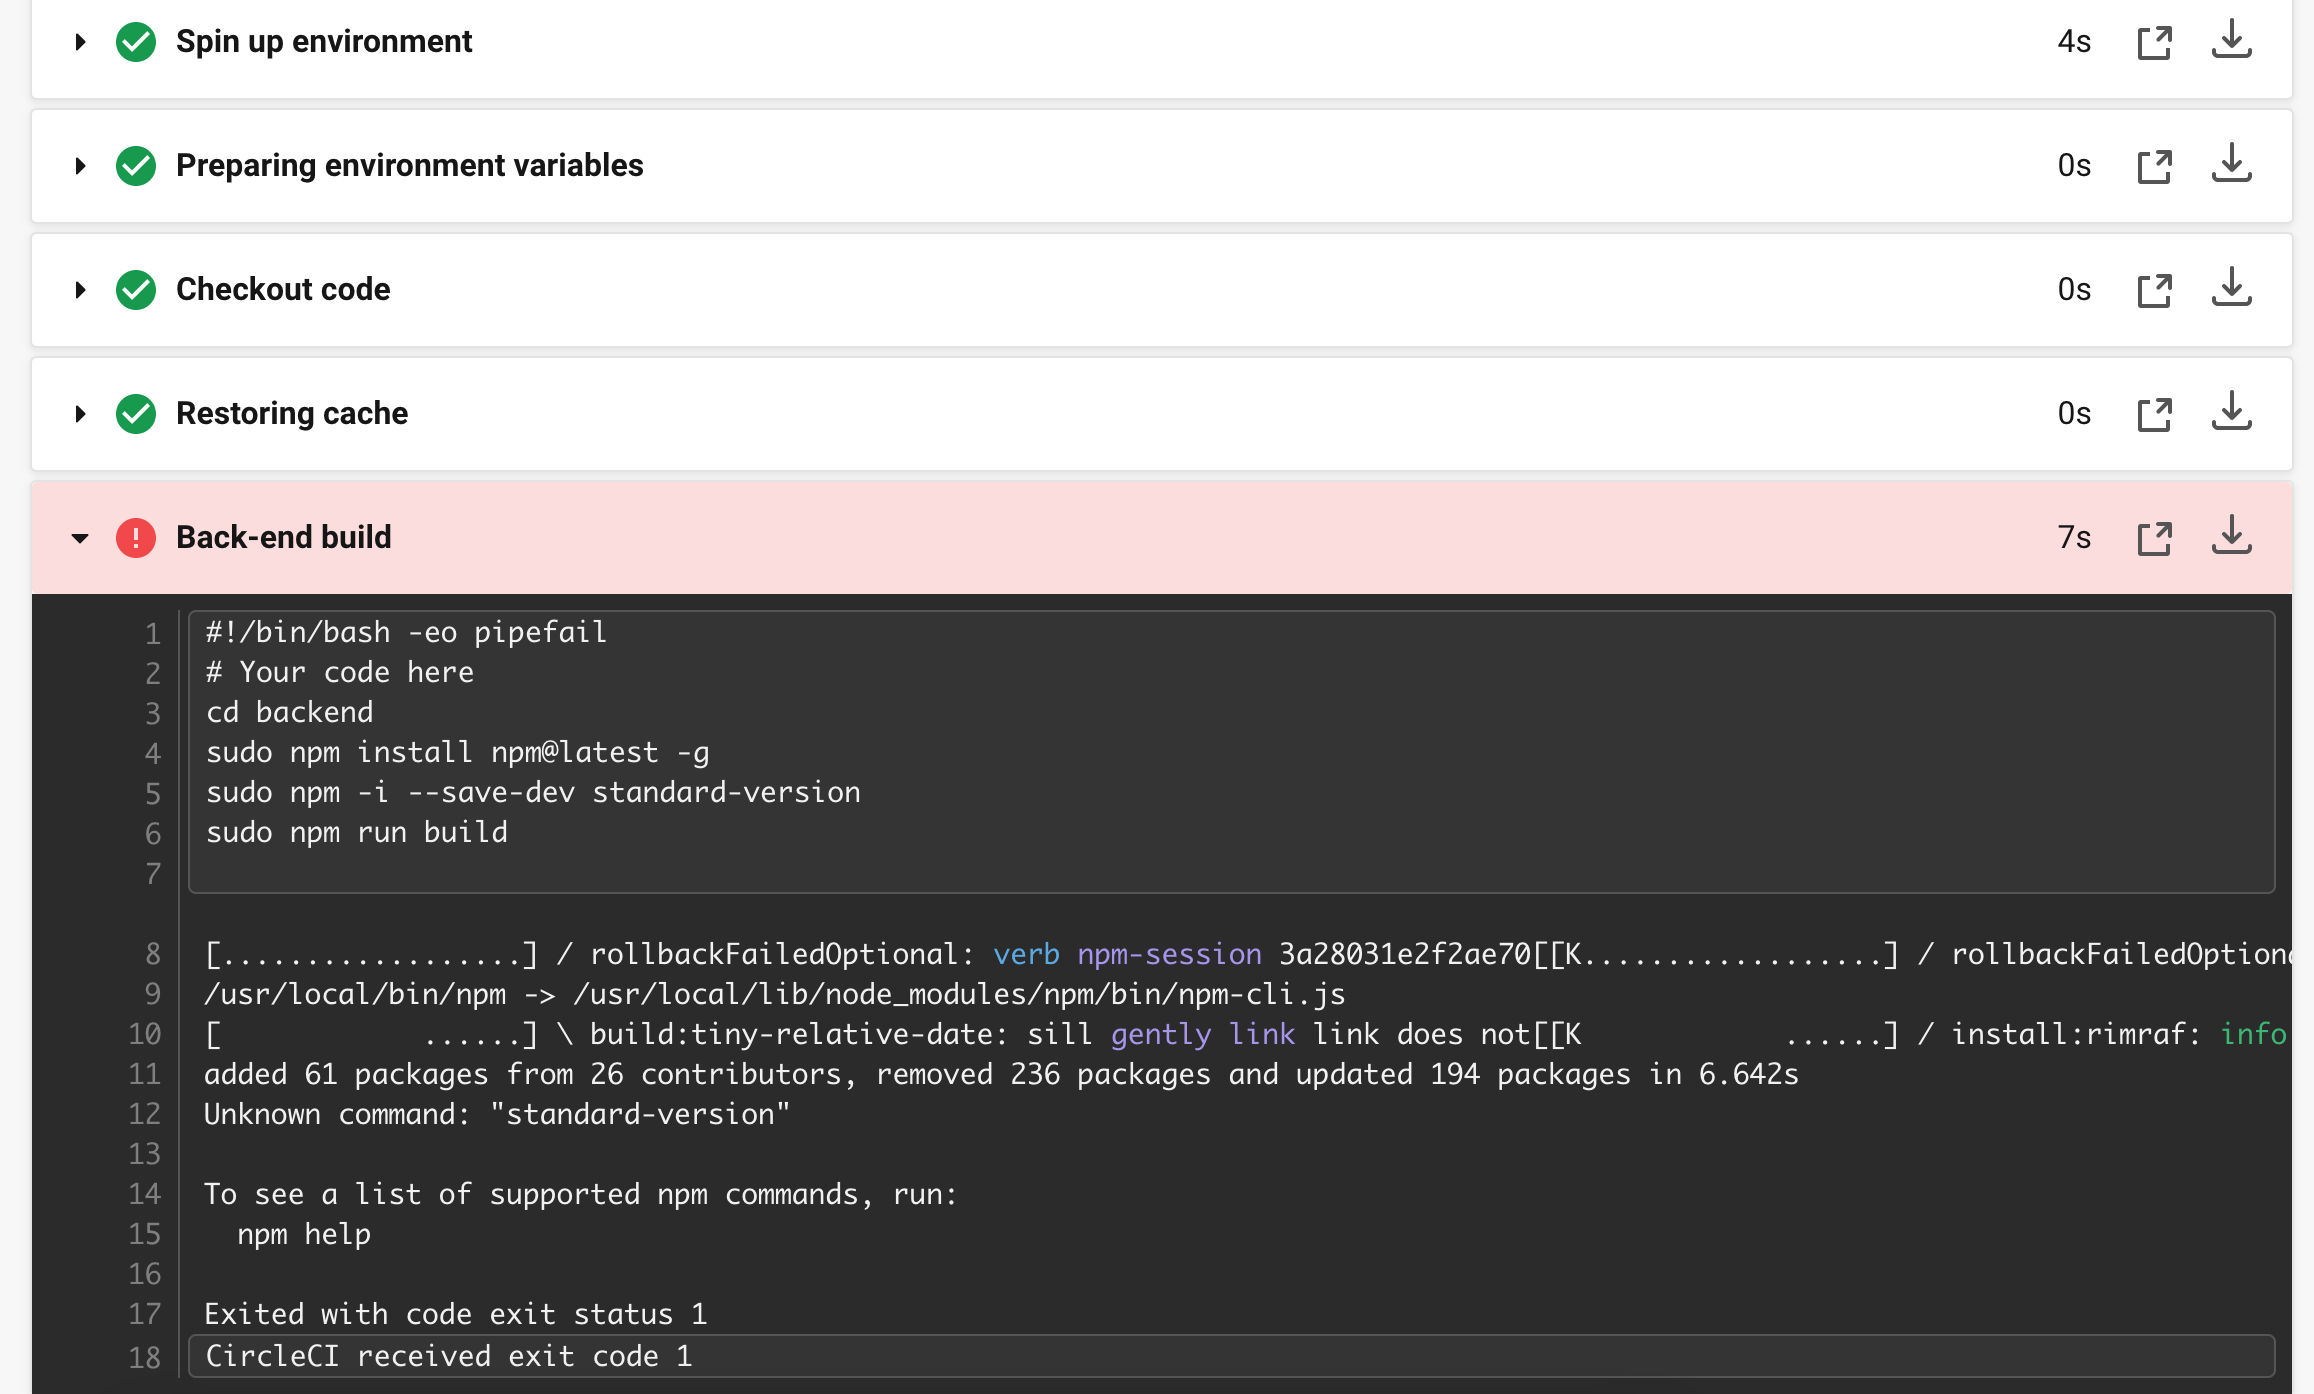
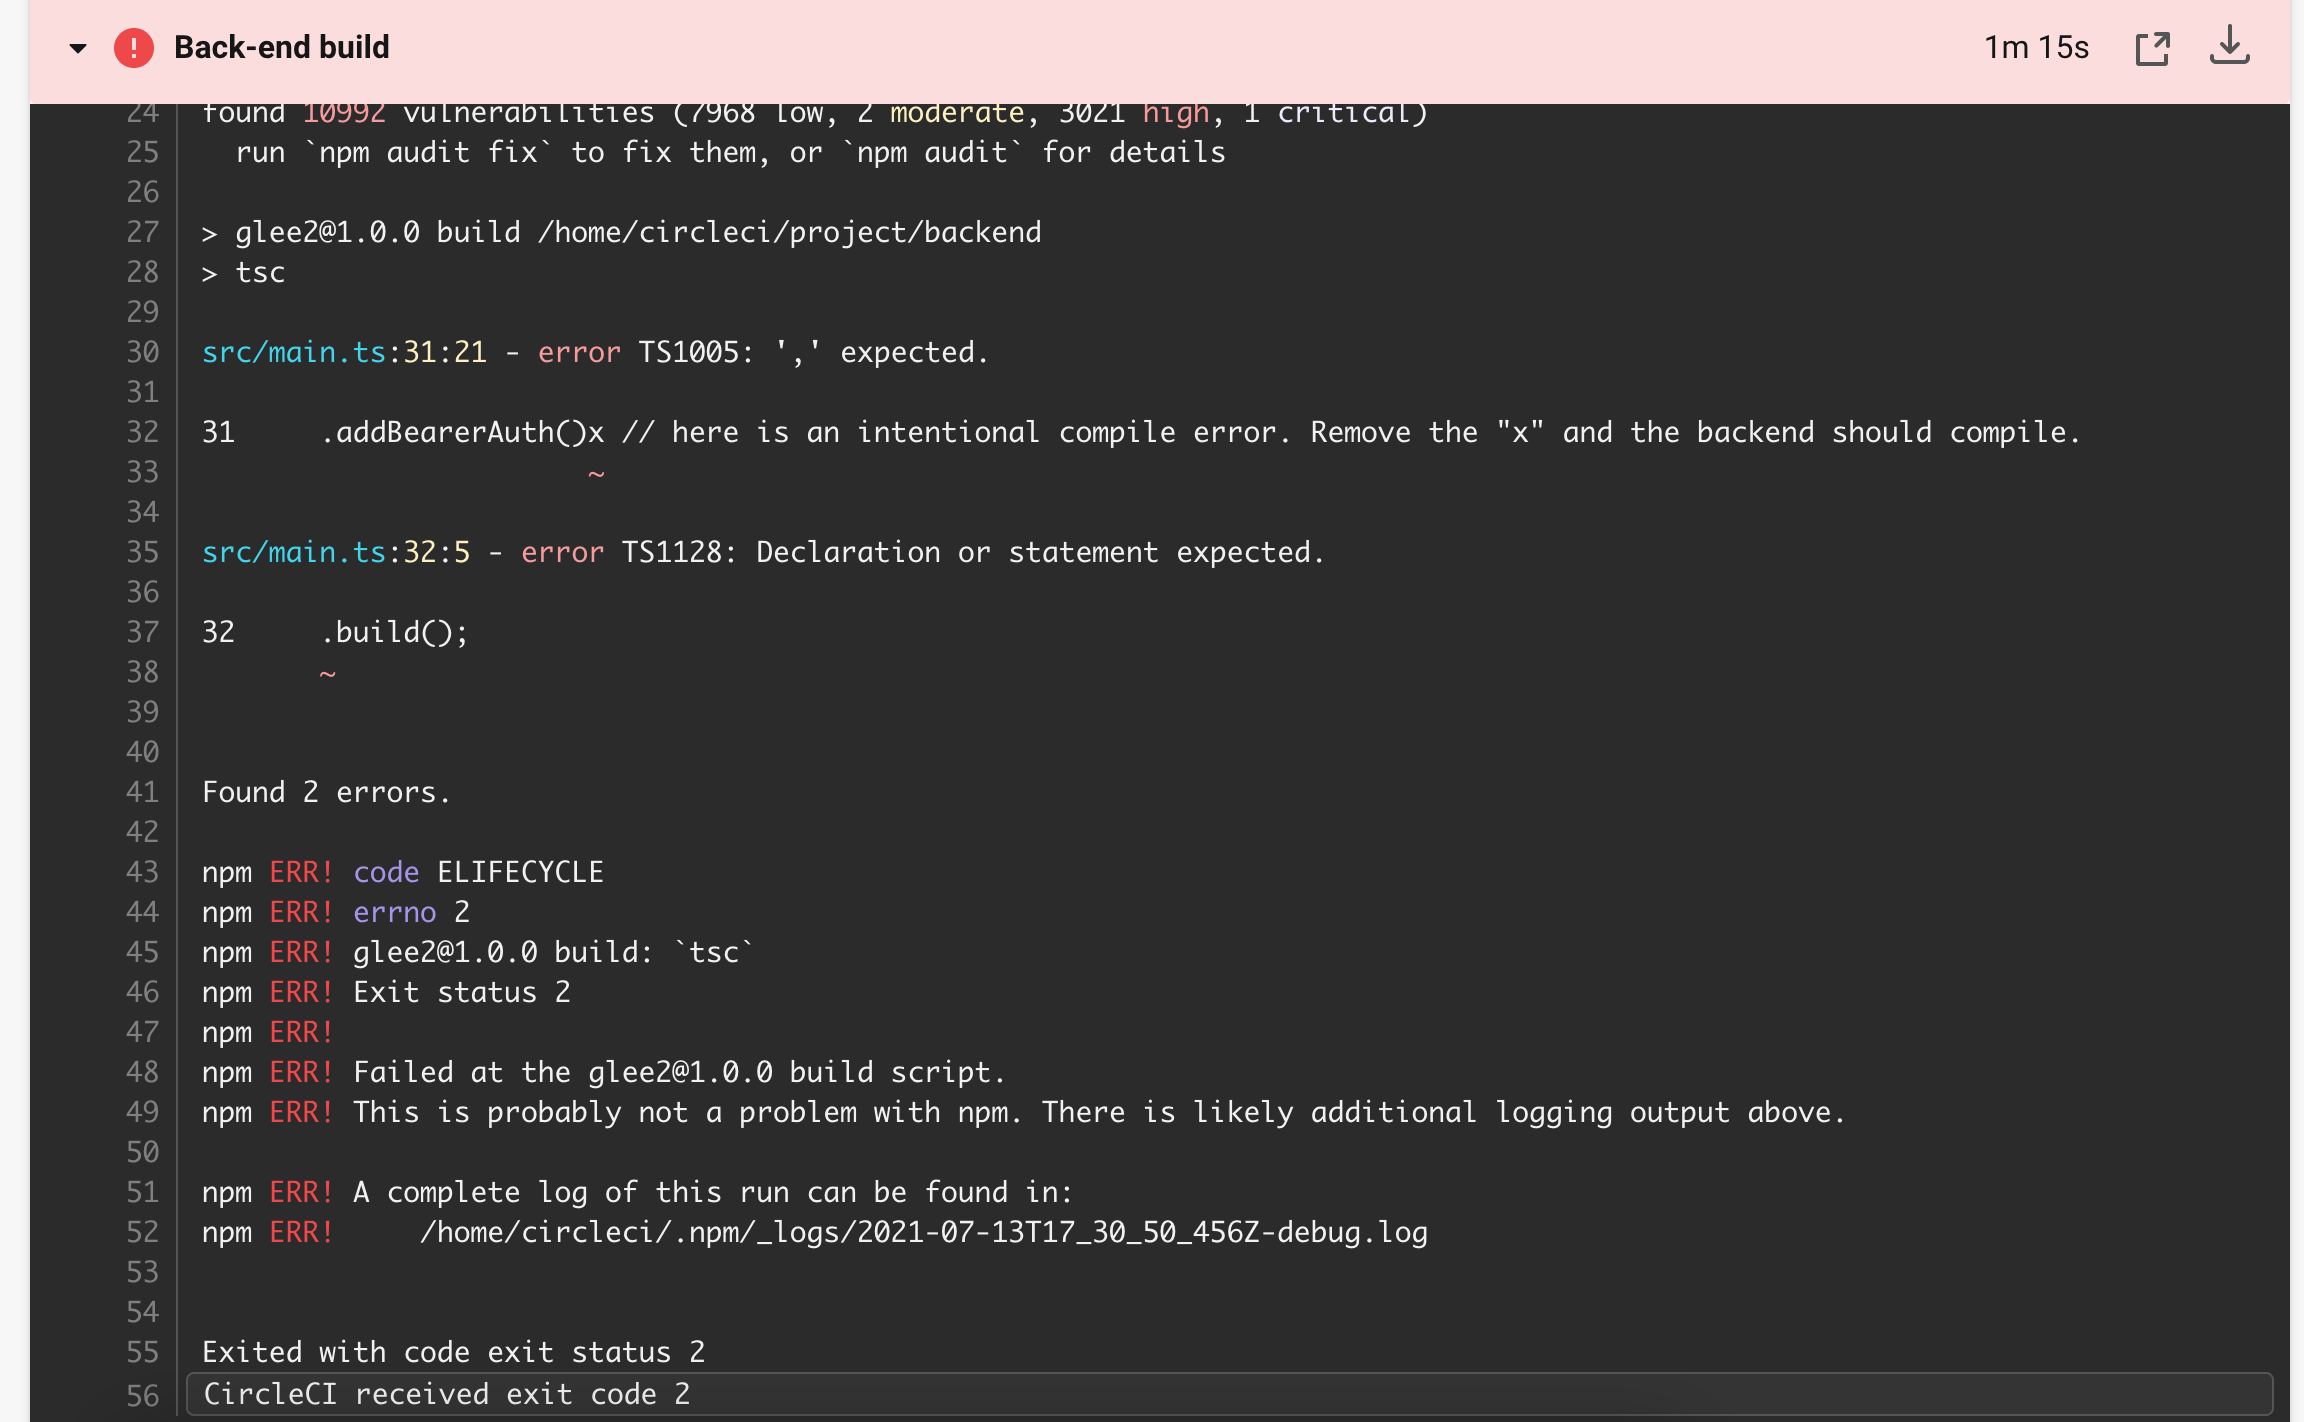
vulnerability error

diff --git a/backend/src/main.ts b/backend/src/main.ts
@@ -28,7 +28,7 @@ async function bootstrap() {
     .setVersion('1.0')
     .addTag('customTag')
     .setBasePath(apiVersionPrefix)
-    .addBearerAuth()x // here is an intentional compile error. Remove the "x" and the backend should compile.
+    .addBearerAuth() // here is an intentional compile error. Remove the "x" and the backend should compile.
     .build();
   const document = SwaggerModule.createDocument(app, options);
   SwaggerModule.setup(`api/${apiVersionPrefix}`, app, document);
